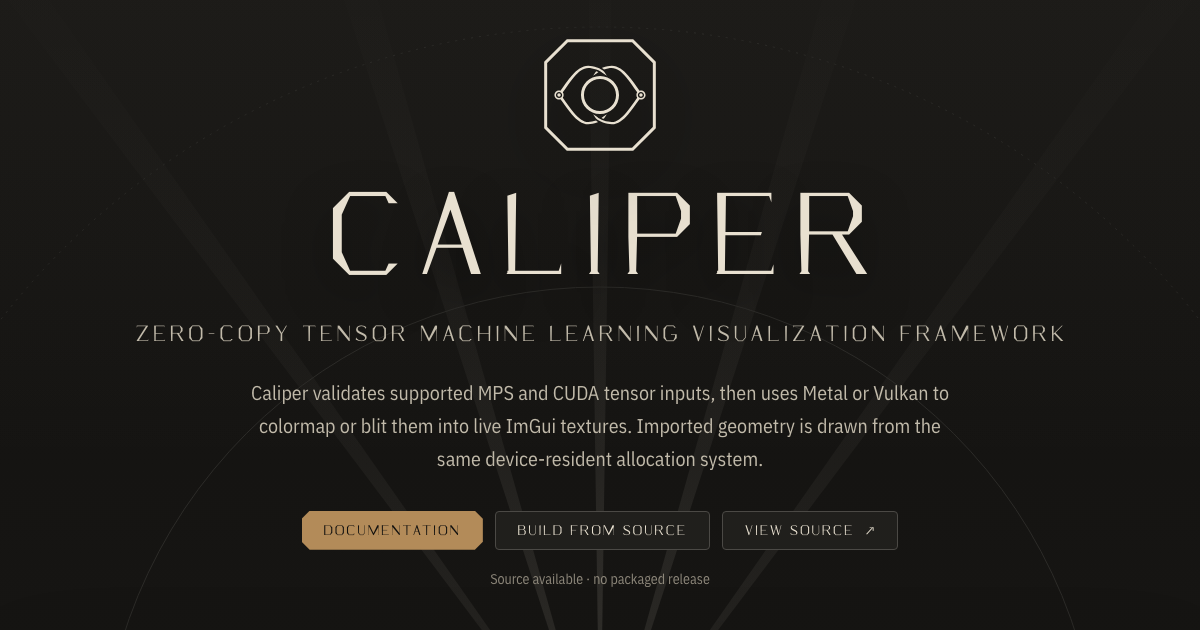
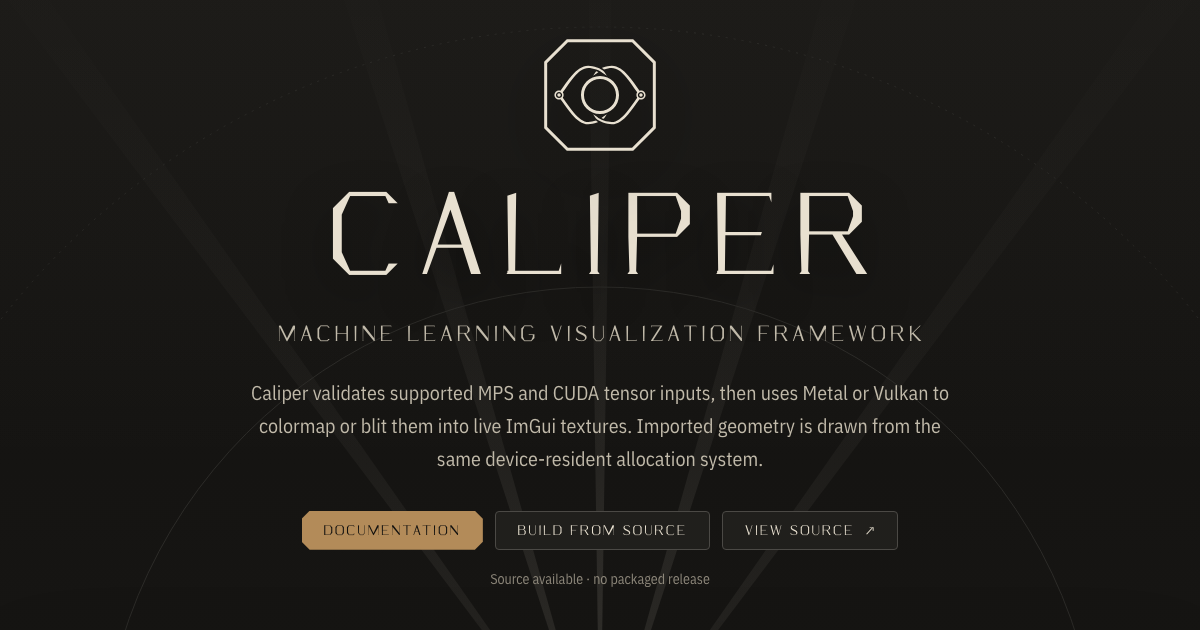
Site: Libraries lists the core libraries Caliper's code is written against
Twelve cards: Dear ImGui, ImPlot, ImPlot3D, GLFW, Metal, Vulkan, the CUDA
driver API, PyTorch, DLPack, nanobind, DuckDB and the Arrow C Data Interface,
each with a line where Caliper calls it, read from the published commit and
linked to it. The filter and the avatars of the other libraries go. The link
preview is re-rendered with the current tagline.

Claude-Session: https://claude.ai/code/session_01VE6j3WRdUkYkmdJG6Q3Me5

Changed region(s): [[0.1233, 0.5127, 0.8942, 0.5429]]

diff --git a/site/index.html b/site/index.html
@@ -190,24 +190,22 @@
   .uc-status.s-planned { color: var(--faint); }
   .uc-status.s-planned::before { background: none; box-shadow: inset 0 0 0 1.5px var(--faint); }
 
-  /* Libraries: a card per project, filtered by group. */
-  .lib-filters { display: flex; flex-wrap: wrap; gap: 8px; margin: 30px 0 22px; }
-  .lib-filter { appearance: none; display: inline-flex; align-items: center; gap: 9px; padding: 8px 13px 7px; border: 1px solid var(--rule); border-radius: 4px;
-                background: var(--plate); color: var(--secondary); font: 12px/1 var(--display); letter-spacing: .16em; text-transform: uppercase; cursor: pointer; }
-  .lib-filter .count { font: 11px/1 var(--mono); letter-spacing: 0; color: var(--faint); }
-  .lib-filter:hover { background: var(--plate-hover); color: var(--parchment); }
-  .lib-filter[aria-pressed="true"] { border-color: var(--bronze); color: var(--parchment); }
-  .lib-filter[aria-pressed="true"] .count { color: var(--bronze); }
+  /* Libraries: a card per core library, with a line where Caliper calls it. */
   .libs { display: grid; grid-template-columns: repeat(4, minmax(0, 1fr)); gap: 12px; }
-  .lib { display: grid; grid-template-columns: 40px minmax(0, 1fr); grid-template-rows: auto auto 1fr auto; column-gap: 14px; padding: 16px 16px 14px;
-         background: var(--plate); border: 1px solid var(--rule-faint); border-radius: 6px; transition: border-color .15s, background .15s; }
-  .lib:hover { border-color: var(--rule); background: var(--plate-hover); }
-  .lib[hidden] { display: none; }
+  .lib { display: grid; grid-template-columns: 40px minmax(0, 1fr); grid-template-rows: auto auto auto 1fr auto; column-gap: 14px; padding: 16px 16px 14px;
+         background: var(--plate); border: 1px solid var(--rule-faint); border-radius: 6px; }
   .lib img { grid-row: 1 / 3; width: 40px; height: 40px; border-radius: 8px; background: #f2eee6; }
   .lib-name { font-size: 15.5px; line-height: 1.3; color: var(--parchment); align-self: end; }
+  .lib-name:hover { color: var(--bronze-hover); }
   .lib-repo { font: 11.5px/1.5 var(--mono); color: var(--faint); overflow: hidden; text-overflow: ellipsis; white-space: nowrap; }
   .lib-use { grid-column: 1 / -1; font-size: 14px; line-height: 1.5; color: var(--secondary); margin-top: 12px; }
-  .lib-pin { grid-column: 1 / -1; font: 11.5px/1.4 var(--mono); color: var(--faint); margin-top: 10px; }
+  .lib-code { grid-column: 1 / -1; align-self: start; display: block; margin-top: 12px; padding: 9px 11px 8px; background: var(--deep);
+              border: 1px solid var(--rule-faint); border-radius: 4px; }
+  .lib-code code { display: block; font: 11.5px/1.55 var(--mono); color: var(--secondary); overflow-wrap: anywhere; }
+  .lib-where { display: block; margin-top: 6px; font: 11px/1.3 var(--mono); color: var(--faint); }
+  .lib-code:hover { border-color: var(--rule); }
+  .lib-code:hover .lib-where { color: var(--bronze); }
+  .lib-pin { grid-column: 1 / -1; font: 11.5px/1.4 var(--mono); color: var(--faint); margin-top: 12px; }
   .platforms { display: grid; grid-template-columns: 6.5em 1fr; margin: 4px 0 20px; border-top: 1px solid var(--rule-faint); }
   .platforms dt, .platforms dd { margin: 0; padding: 8px 0; border-bottom: 1px solid var(--rule-faint); font-size: 15px; }
   .platforms dt { font: 12px/1.6 var(--display); letter-spacing: .16em; text-transform: uppercase; color: var(--parchment); padding-top: 10px; }
@@ -1454,39 +1452,21 @@ vulkan_renderer.cpp:2309  VkResult err = vkQueuePresentKHR(queue_, &amp;pi);</ti
   <section id="libraries">
     <div class="wrap">
       <div class="label eyebrow">03 · Libraries</div>
-      <h2>Libraries</h2>
-      <p class="intro">The open-source projects and system APIs Caliper is built on. Each card links to its repository.</p>
-      <div class="lib-filters" role="group" aria-label="Filter libraries"><button type="button" class="lib-filter" data-group="all" aria-pressed="true">All<span class="count">29</span></button><button type="button" class="lib-filter" data-group="interface" aria-pressed="false">Interface<span class="count">6</span></button><button type="button" class="lib-filter" data-group="graphics" aria-pressed="false">Graphics<span class="count">6</span></button><button type="button" class="lib-filter" data-group="data" aria-pressed="false">Data<span class="count">6</span></button><button type="button" class="lib-filter" data-group="ml" aria-pressed="false">Machine learning<span class="count">4</span></button><button type="button" class="lib-filter" data-group="tooling" aria-pressed="false">Build and tooling<span class="count">7</span></button></div>
+      <h2>Core libraries</h2>
+      <p class="intro">The libraries and system APIs Caliper's own code is written against, each with a line where Caliper calls it.</p>
       <div class="libs">
-        <a class="lib" data-group="interface" href="https://github.com/ocornut/imgui"><img src="assets/libs/ocornut.png" alt="" width="40" height="40"><span class="lib-name">Dear ImGui</span><span class="lib-repo">ocornut/imgui</span><span class="lib-use">Every panel, in the app and in applets</span><span class="lib-pin">MIT · 1.92.9 WIP</span></a>
-        <a class="lib" data-group="interface" href="https://github.com/epezent/implot"><img src="assets/libs/epezent.png" alt="" width="40" height="40"><span class="lib-name">ImPlot</span><span class="lib-repo">epezent/implot</span><span class="lib-use">Plots: loss curves, series, histograms</span><span class="lib-pin">MIT · 0.18 WIP</span></a>
-        <a class="lib" data-group="interface" href="https://github.com/brenocq/implot3d"><img src="assets/libs/brenocq.png" alt="" width="40" height="40"><span class="lib-name">ImPlot3D</span><span class="lib-repo">brenocq/implot3d</span><span class="lib-use">3-D point clouds and fallback geometry</span><span class="lib-pin">MIT · 0.4</span></a>
-        <a class="lib" data-group="interface" href="https://github.com/glfw/glfw"><img src="assets/libs/glfw.png" alt="" width="40" height="40"><span class="lib-name">GLFW</span><span class="lib-repo">glfw/glfw</span><span class="lib-use">Windows, input and the event loop</span><span class="lib-pin">zlib · 3.5.0</span></a>
-        <a class="lib" data-group="interface" href="https://github.com/IBM/plex"><img src="assets/libs/ibm.png" alt="" width="40" height="40"><span class="lib-name">IBM Plex Sans Condensed</span><span class="lib-repo">IBM/plex</span><span class="lib-use">Interface type</span><span class="lib-pin">OFL 1.1 · 1.3</span></a>
-        <a class="lib" data-group="interface" href="https://github.com/adobe-fonts/source-code-pro"><img src="assets/libs/adobe-fonts.png" alt="" width="40" height="40"><span class="lib-name">Source Code Pro</span><span class="lib-repo">adobe-fonts/source-code-pro</span><span class="lib-use">Monospace type</span><span class="lib-pin">OFL 1.1 · 2.042</span></a>
-        <a class="lib" data-group="graphics" href="https://developer.apple.com/metal/"><img src="assets/libs/apple.png" alt="" width="40" height="40"><span class="lib-name">Metal</span><span class="lib-repo">developer.apple.com/metal</span><span class="lib-use">The macOS renderer: compute colormap, shared events</span><span class="lib-pin">System framework</span></a>
-        <a class="lib" data-group="graphics" href="https://github.com/KhronosGroup/Vulkan-Headers"><img src="assets/libs/khronosgroup.png" alt="" width="40" height="40"><span class="lib-name">Vulkan-Headers</span><span class="lib-repo">KhronosGroup/Vulkan-Headers</span><span class="lib-use">The Windows renderer&#x27;s API</span><span class="lib-pin">SDK 1.3.290.0</span></a>
-        <a class="lib" data-group="graphics" href="https://github.com/zeux/volk"><img src="assets/libs/zeux.png" alt="" width="40" height="40"><span class="lib-name">volk</span><span class="lib-repo">zeux/volk</span><span class="lib-use">Loads Vulkan at run time, no SDK needed</span><span class="lib-pin">SDK 1.3.290.0</span></a>
-        <a class="lib" data-group="graphics" href="https://github.com/KhronosGroup/glslang"><img src="assets/libs/khronosgroup.png" alt="" width="40" height="40"><span class="lib-name">glslang</span><span class="lib-repo">KhronosGroup/glslang</span><span class="lib-use">Compiles the colormap shader to SPIR-V at build time</span><span class="lib-pin">SDK 1.3.290.0</span></a>
-        <a class="lib" data-group="graphics" href="https://docs.nvidia.com/cuda/cuda-driver-api/"><img src="assets/libs/nvidia.png" alt="" width="40" height="40"><span class="lib-name">CUDA driver API</span><span class="lib-repo">docs.nvidia.com/cuda</span><span class="lib-use">Imports Vulkan memory and semaphores; loaded from the driver</span><span class="lib-pin">System library</span></a>
-        <a class="lib" data-group="graphics" href="https://github.com/nigels-com/glew"><img src="assets/libs/nigels-com.png" alt="" width="40" height="40"><span class="lib-name">GLEW</span><span class="lib-repo">nigels-com/glew</span><span class="lib-use">OpenGL loader for the fallback renderer</span><span class="lib-pin">BSD / MIT · 2.3.1</span></a>
-        <a class="lib" data-group="data" href="https://github.com/duckdb/duckdb"><img src="assets/libs/duckdb.png" alt="" width="40" height="40"><span class="lib-name">DuckDB</span><span class="lib-repo">duckdb/duckdb</span><span class="lib-use">Metrics, artifacts and SQL data stores</span><span class="lib-pin">MIT · 1.5.2</span></a>
-        <a class="lib" data-group="data" href="https://arrow.apache.org/docs/format/CDataInterface.html"><img src="assets/libs/apache.png" alt="" width="40" height="40"><span class="lib-name">Arrow C Data Interface</span><span class="lib-repo">arrow.apache.org</span><span class="lib-use">Table exchange for the data service</span><span class="lib-pin">Specification</span></a>
-        <a class="lib" data-group="data" href="https://github.com/dmlc/dlpack"><img src="assets/libs/dmlc.png" alt="" width="40" height="40"><span class="lib-name">DLPack</span><span class="lib-repo">dmlc/dlpack</span><span class="lib-use">The tensor descriptor the Python package exchanges with torch</span><span class="lib-pin">Apache-2.0 · 0.8</span></a>
-        <a class="lib" data-group="data" href="https://github.com/marzer/tomlplusplus"><img src="assets/libs/marzer.png" alt="" width="40" height="40"><span class="lib-name">toml++</span><span class="lib-repo">marzer/tomlplusplus</span><span class="lib-use">Applet manifests</span><span class="lib-pin">3.4.0</span></a>
-        <a class="lib" data-group="data" href="https://github.com/nothings/stb"><img src="assets/libs/nothings.png" alt="" width="40" height="40"><span class="lib-name">stb</span><span class="lib-repo">nothings/stb</span><span class="lib-use">PNG export</span><span class="lib-pin">Public domain</span></a>
-        <a class="lib" data-group="data" href="https://github.com/thedmd/imgui-node-editor"><img src="assets/libs/thedmd.png" alt="" width="40" height="40"><span class="lib-name">crude_json</span><span class="lib-repo">thedmd/imgui-node-editor</span><span class="lib-use">The live inspector&#x27;s request channel</span><span class="lib-pin">Public domain · patched</span></a>
-        <a class="lib" data-group="ml" href="https://github.com/pytorch/pytorch"><img src="assets/libs/pytorch.png" alt="" width="40" height="40"><span class="lib-name">PyTorch</span><span class="lib-repo">pytorch/pytorch</span><span class="lib-use">LibTorch in applets; torch tensors in the Python package</span><span class="lib-pin">LibTorch 2.5.1</span></a>
-        <a class="lib" data-group="ml" href="https://github.com/ml-explore/mlx-lm"><img src="assets/libs/ml-explore.png" alt="" width="40" height="40"><span class="lib-name">MLX LM</span><span class="lib-repo">ml-explore/mlx-lm</span><span class="lib-use">Runs the model host for the inspector</span><span class="lib-pin">0.32.2 · optional</span></a>
-        <a class="lib" data-group="ml" href="https://github.com/numpy/numpy"><img src="assets/libs/numpy.png" alt="" width="40" height="40"><span class="lib-name">NumPy</span><span class="lib-repo">numpy/numpy</span><span class="lib-use">Array results from the Python package</span></a>
-        <a class="lib" data-group="ml" href="https://github.com/ggml-org/llama.cpp"><img src="assets/libs/ggml-org.png" alt="" width="40" height="40"><span class="lib-name">llama.cpp</span><span class="lib-repo">ggml-org/llama.cpp</span><span class="lib-use">GGUF inference for the archived OpenGLlama applet</span><span class="lib-pin">MIT · opt-in build</span></a>
-        <a class="lib" data-group="tooling" href="https://github.com/wjakob/nanobind"><img src="assets/libs/wjakob.png" alt="" width="40" height="40"><span class="lib-name">nanobind</span><span class="lib-repo">wjakob/nanobind</span><span class="lib-use">Python bindings for the native module</span><span class="lib-pin">2 or later</span></a>
-        <a class="lib" data-group="tooling" href="https://github.com/scikit-build/scikit-build-core"><img src="assets/libs/scikit-build.png" alt="" width="40" height="40"><span class="lib-name">scikit-build-core</span><span class="lib-repo">scikit-build/scikit-build-core</span><span class="lib-use">Builds the Python wheel with CMake</span><span class="lib-pin">0.10 or later</span></a>
-        <a class="lib" data-group="tooling" href="https://github.com/curl/curl"><img src="assets/libs/curl.png" alt="" width="40" height="40"><span class="lib-name">libcurl</span><span class="lib-repo">curl/curl</span><span class="lib-use">Dataset downloads in GPTScope and EmbedScope</span></a>
-        <a class="lib" data-group="tooling" href="https://github.com/madler/zlib"><img src="assets/libs/madler.png" alt="" width="40" height="40"><span class="lib-name">zlib</span><span class="lib-repo">madler/zlib</span><span class="lib-use">MNIST decompression</span></a>
-        <a class="lib" data-group="tooling" href="https://github.com/doctest/doctest"><img src="assets/libs/doctest.png" alt="" width="40" height="40"><span class="lib-name">doctest</span><span class="lib-repo">doctest/doctest</span><span class="lib-use">C++ unit tests</span><span class="lib-pin">2.4.11</span></a>
-        <a class="lib" data-group="tooling" href="https://github.com/pytest-dev/pytest"><img src="assets/libs/pytest-dev.png" alt="" width="40" height="40"><span class="lib-name">pytest</span><span class="lib-repo">pytest-dev/pytest</span><span class="lib-use">Python tests</span></a>
-        <a class="lib" data-group="tooling" href="https://github.com/squidfunk/mkdocs-material"><img src="assets/libs/squidfunk.png" alt="" width="40" height="40"><span class="lib-name">Material for MkDocs</span><span class="lib-repo">squidfunk/mkdocs-material</span><span class="lib-use">The documentation site</span></a>
+        <div class="lib"><img src="assets/libs/ocornut.png" alt="" width="40" height="40"><a class="lib-name" href="https://github.com/ocornut/imgui">Dear ImGui</a><span class="lib-repo">ocornut/imgui</span><span class="lib-use">Every panel in the app and in applets</span><a class="lib-code" href="https://github.com/AhmedKhan-GH/caliper/blob/891dc3d203514c0458cec043db0ff4526951f89f/applets/gpt_scope/gpt_scope.cpp#L1388"><code>ImGui::Image(caliper::Bridge::imtex(st-&gt;head_tex), ImVec2(side, side));</code><span class="lib-where">gpt_scope.cpp:1388</span></a><span class="lib-pin">MIT · 1.92.9 WIP</span></div>
+        <div class="lib"><img src="assets/libs/epezent.png" alt="" width="40" height="40"><a class="lib-name" href="https://github.com/epezent/implot">ImPlot</a><span class="lib-repo">epezent/implot</span><span class="lib-use">Plots in the app and in applets</span><a class="lib-code" href="https://github.com/AhmedKhan-GH/caliper/blob/891dc3d203514c0458cec043db0ff4526951f89f/applets/embed_scope/embed_scope.cpp#L826"><code>if (!loss.empty()) ImPlot::PlotLine(&quot;loss&quot;, loss.data(), (int)loss.size());</code><span class="lib-where">embed_scope.cpp:826</span></a><span class="lib-pin">MIT · 0.18 WIP</span></div>
+        <div class="lib"><img src="assets/libs/brenocq.png" alt="" width="40" height="40"><a class="lib-name" href="https://github.com/brenocq/implot3d">ImPlot3D</a><span class="lib-repo">brenocq/implot3d</span><span class="lib-use">3-D point clouds and fallback geometry</span><a class="lib-code" href="https://github.com/AhmedKhan-GH/caliper/blob/891dc3d203514c0458cec043db0ff4526951f89f/applets/embed_scope/embed_scope.cpp#L911"><code>ImPlot3D::PlotScatter(&quot;live batch&quot;, st-&gt;lbx.data(),</code><span class="lib-where">embed_scope.cpp:911</span></a><span class="lib-pin">MIT · 0.4</span></div>
+        <div class="lib"><img src="assets/libs/glfw.png" alt="" width="40" height="40"><a class="lib-name" href="https://github.com/glfw/glfw">GLFW</a><span class="lib-repo">glfw/glfw</span><span class="lib-use">Windows, input and the event loop</span><a class="lib-code" href="https://github.com/AhmedKhan-GH/caliper/blob/891dc3d203514c0458cec043db0ff4526951f89f/src/host/renderer/metal_renderer.mm#L699"><code>glfwGetFramebufferSize(window_, &amp;w, &amp;h);</code><span class="lib-where">metal_renderer.mm:699</span></a><span class="lib-pin">zlib · 3.5.0</span></div>
+        <div class="lib"><img src="assets/libs/apple.png" alt="" width="40" height="40"><a class="lib-name" href="https://developer.apple.com/metal/">Metal</a><span class="lib-repo">developer.apple.com/metal</span><span class="lib-use">The macOS renderer and its compute colormap</span><a class="lib-code" href="https://github.com/AhmedKhan-GH/caliper/blob/891dc3d203514c0458cec043db0ff4526951f89f/src/host/renderer/metal_renderer.mm#L1703"><code>[enc dispatchThreadgroups:groups threadsPerThreadgroup:tg];</code><span class="lib-where">metal_renderer.mm:1703</span></a><span class="lib-pin">System framework</span></div>
+        <div class="lib"><img src="assets/libs/khronosgroup.png" alt="" width="40" height="40"><a class="lib-name" href="https://github.com/KhronosGroup/Vulkan-Headers">Vulkan</a><span class="lib-repo">KhronosGroup/Vulkan-Headers</span><span class="lib-use">The Windows renderer, loaded at run time through volk</span><a class="lib-code" href="https://github.com/AhmedKhan-GH/caliper/blob/891dc3d203514c0458cec043db0ff4526951f89f/src/host/renderer/vulkan_renderer.cpp#L3293"><code>vkCmdDispatch(cb, (p.w + 15) / 16, (p.h + 15) / 16, 1);</code><span class="lib-where">vulkan_renderer.cpp:3293</span></a><span class="lib-pin">SDK 1.3.290.0</span></div>
+        <div class="lib"><img src="assets/libs/nvidia.png" alt="" width="40" height="40"><a class="lib-name" href="https://docs.nvidia.com/cuda/cuda-driver-api/">CUDA driver API</a><span class="lib-repo">docs.nvidia.com/cuda</span><span class="lib-use">Shares VRAM and semaphores with Vulkan</span><a class="lib-code" href="https://github.com/AhmedKhan-GH/caliper/blob/891dc3d203514c0458cec043db0ff4526951f89f/src/host/renderer/vulkan_renderer.cpp#L2673"><code>if (cu-&gt;cuImportExternalMemory(&amp;io.ext, &amp;hd) != cudadrv::CUDA_SUCCESS) {</code><span class="lib-where">vulkan_renderer.cpp:2673</span></a><span class="lib-pin">Loaded from the driver</span></div>
+        <div class="lib"><img src="assets/libs/pytorch.png" alt="" width="40" height="40"><a class="lib-name" href="https://github.com/pytorch/pytorch">PyTorch</a><span class="lib-repo">pytorch/pytorch</span><span class="lib-use">LibTorch in applets; the adapter turns tensors into descriptors</span><a class="lib-code" href="https://github.com/AhmedKhan-GH/caliper/blob/891dc3d203514c0458cec043db0ff4526951f89f/sdk/include/caliper/adapters/torch.hpp#L143"><code>out.data = t.data_ptr();</code><span class="lib-where">torch.hpp:143</span></a><span class="lib-pin">LibTorch 2.5.1</span></div>
+        <div class="lib"><img src="assets/libs/dmlc.png" alt="" width="40" height="40"><a class="lib-name" href="https://github.com/dmlc/dlpack">DLPack</a><span class="lib-repo">dmlc/dlpack</span><span class="lib-use">How the Python package takes tensors from torch</span><a class="lib-code" href="https://github.com/AhmedKhan-GH/caliper/blob/891dc3d203514c0458cec043db0ff4526951f89f/python/src/_native.mm#L241"><code>auto* m = static_cast&lt;DLManagedTensor*&gt;(PyCapsule_GetPointer(o, &quot;dltensor&quot;));</code><span class="lib-where">_native.mm:241</span></a><span class="lib-pin">Apache-2.0 · 0.8</span></div>
+        <div class="lib"><img src="assets/libs/wjakob.png" alt="" width="40" height="40"><a class="lib-name" href="https://github.com/wjakob/nanobind">nanobind</a><span class="lib-repo">wjakob/nanobind</span><span class="lib-use">The Python package&#x27;s native modules</span><a class="lib-code" href="https://github.com/AhmedKhan-GH/caliper/blob/891dc3d203514c0458cec043db0ff4526951f89f/python/src/_live.mm#L457"><code>NB_MODULE(_live, m) {</code><span class="lib-where">_live.mm:457</span></a><span class="lib-pin">2 or later</span></div>
+        <div class="lib"><img src="assets/libs/duckdb.png" alt="" width="40" height="40"><a class="lib-name" href="https://github.com/duckdb/duckdb">DuckDB</a><span class="lib-repo">duckdb/duckdb</span><span class="lib-use">Metrics, artifacts and the SQL data store</span><a class="lib-code" href="https://github.com/AhmedKhan-GH/caliper/blob/891dc3d203514c0458cec043db0ff4526951f89f/src/host/data_store.cpp#L78"><code>auto r = impl_-&gt;con-&gt;Query(sql);</code><span class="lib-where">data_store.cpp:78</span></a><span class="lib-pin">MIT · 1.5.2</span></div>
+        <div class="lib"><img src="assets/libs/apache.png" alt="" width="40" height="40"><a class="lib-name" href="https://arrow.apache.org/docs/format/CDataInterface.html">Arrow C Data Interface</a><span class="lib-repo">arrow.apache.org</span><span class="lib-use">Tables returned by the data service</span><a class="lib-code" href="https://github.com/AhmedKhan-GH/caliper/blob/891dc3d203514c0458cec043db0ff4526951f89f/sdk/include/caliper/services/data_v1.h#L26"><code>bool (*query)(const char* sql_utf8, struct ArrowArrayStream* out);</code><span class="lib-where">data_v1.h:26</span></a><span class="lib-pin">Specification</span></div>
       </div>
     </div>
   </section>
@@ -1539,16 +1519,6 @@ vulkan_renderer.cpp:2309  VkResult err = vkQueuePresentKHR(queue_, &amp;pi);</ti
   </div>
 </footer>
 
-<script>
-// The library filter.
-(() => {
-  const filters = [...document.querySelectorAll(".lib-filter")], libs = [...document.querySelectorAll(".lib")];
-  filters.forEach(f => f.addEventListener("click", () => {
-    filters.forEach(x => x.setAttribute("aria-pressed", x === f));
-    libs.forEach(l => { l.hidden = f.dataset.group !== "all" && l.dataset.group !== f.dataset.group; });
-  }));
-})();
-</script>
 <script>
 // The frame traces: play each one, fill in what every lane is doing and the line it is on, and light those lines
 // in the code panels of that backend.
